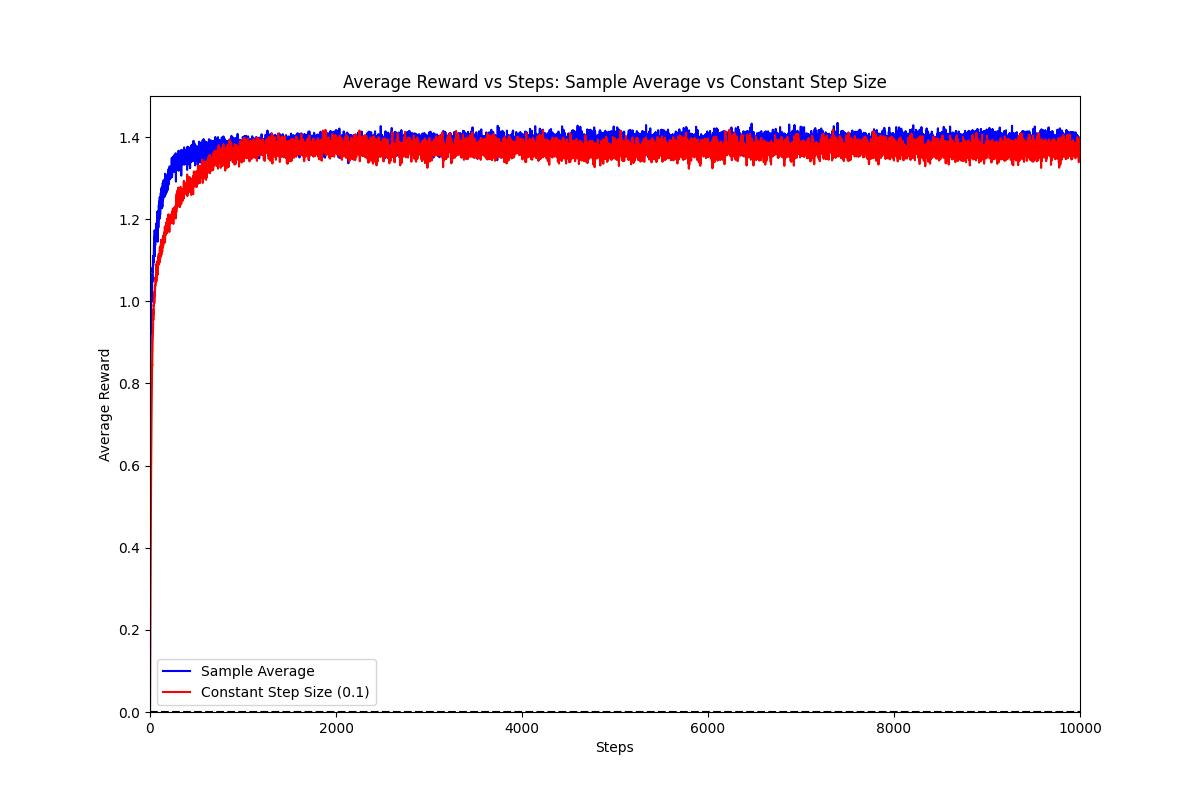
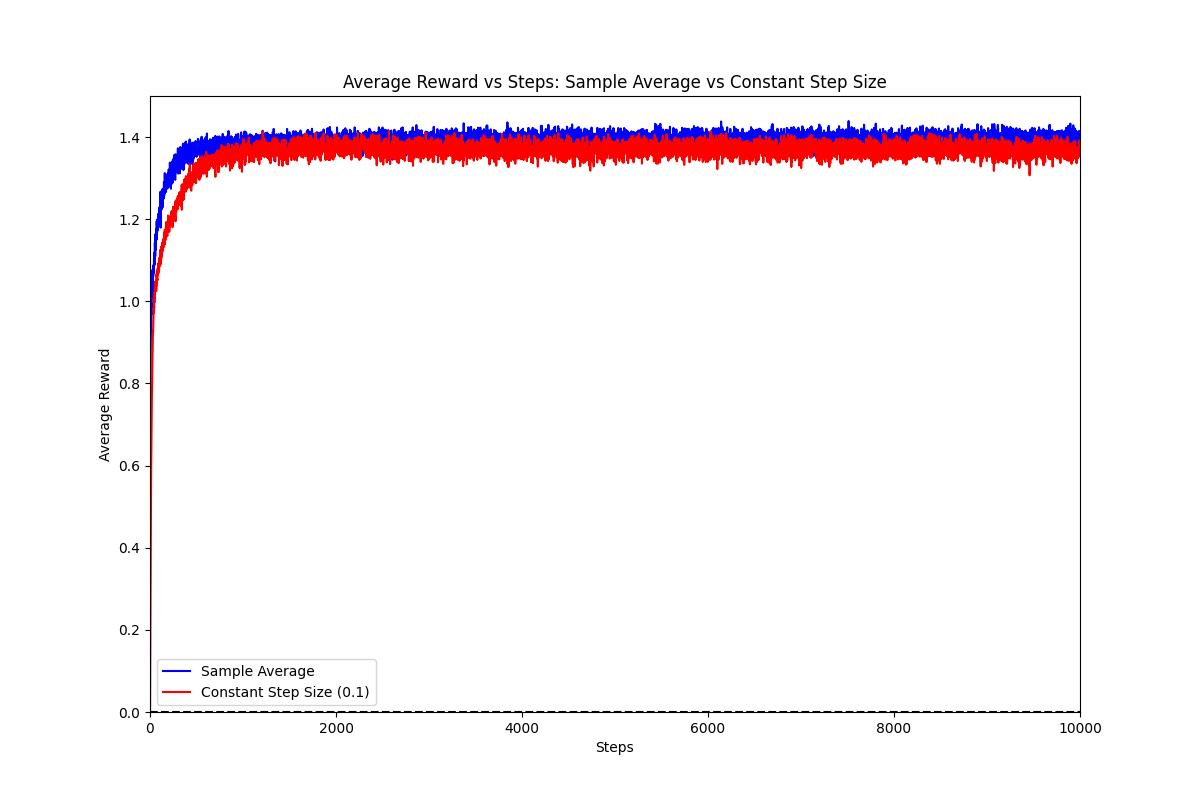
add: .. + gradient, ucb

Changed region(s): [[0.1233, 0.1562, 0.925, 0.375]]

diff --git a/10armed_testbed/all_algos.py b/10armed_testbed/all_algos.py
@@ -1,0 +1,160 @@
+import numpy as np
+from tqdm import tqdm
+import matplotlib.pyplot as plt
+
+class Bandit:
+    def __init__(self, k=10, eps=0.0, initial_q=0.0, true_reward=0.0,
+                 sample_average=True, UCB=None, gradient=False, gradient_baseline=False, 
+                 step_size=0.1, random_walk=False):
+        self.k = k
+
+        self.initial_q = initial_q
+        self.true_reward = true_reward
+
+        self.q_true = [np.random.normal(true_reward, 1.0) + initial_q for _ in range(k)]
+        self.Qt = [self.initial_q] * k 
+        self.cnt_action = [0] * k
+
+        self.sample_average = sample_average
+        self.UCB = UCB
+        self.gradient = gradient
+        self.gradient_baseline = gradient_baseline
+
+        self.step_idx = 0
+        self.step_size = step_size
+
+        self.eps = eps
+        self.random_walk = random_walk
+
+    def get_reward(self, action):
+        if self.random_walk:
+            return np.random.normal(self.q_true[action], 1.0) + np.random.normal(0.0, 0.01)
+        else:
+            return np.random.normal(self.q_true[action], 1.0)
+
+    def reset(self):
+        self.q_true = [np.random.normal(0.0, 1.0) + self.initial_q for _ in range(self.k)]
+        self.Qt = [0.0] * self.k 
+        self.cnt_action = [0] * self.k
+
+    def act(self):
+        if np.random.rand() < self.eps or self.step_idx == 1:
+            return np.random.randint(self.k)
+        if self.UCB:
+            # At = argmax { Qt(a) + c * sqrt( log(t) / Nt(a) ) }
+            ucb_q = self.Qt + self.UCB * np.sqrt( np.log(self.step_idx + 1) / (np.array(self.cnt_action) + 1e-5) )
+            best_q = np.max(ucb_q)
+            return np.random.choice([i for i, q in enumerate(ucb_q) if q == best_q])
+        if self.gradient:
+            # probs(a) = exp(H(a)) / sum_b=1_to_k exp(H(b))
+            exp_q = np.exp(self.Qt)
+            self.q_probs = exp_q / np.sum(exp_q)
+            return np.random.choice(range(self.k), p=self.q_probs)
+        best_q = np.max(self.Qt)
+        return np.random.choice([i for i, q in enumerate(self.Qt) if q == best_q])
+
+    def step(self, action):
+        reward = self.get_reward(action)
+        self.cnt_action[action] += 1
+        if self.sample_average:
+            self.Qt[action] = self.Qt[action] + (reward - self.Qt[action]) / self.cnt_action[action] # sample average: new = old + 1/n * (R - old)
+        elif self.gradient:
+            if self.gradient_baseline:
+                baseline = reward
+            else:
+                baseline = 0
+            one_hot = np.zeros(self.k)
+            one_hot[action] = 1
+            # H(t+1) = H(t) + alpha * (R - R_avg) * (1_action - probs(action)) # for taken action
+            # H(t+1) = H(t) - alpha * (R - R_avg) * probs(other_action) # for other actions
+            self.Qt += self.step_size * (reward - baseline) * (one_hot - self.q_probs)
+        else:
+            self.Qt[action] += self.step_size * (reward - self.Qt[action]) # new = old + step_size * (R - old)
+        self.step_idx += 1
+        return reward
+
+
+def run_simulation(bandit, num_steps=1000):
+    bandit.reset()
+    num_steps = num_steps
+    reward_per_steps = np.array([0.0] * num_steps)
+    num_opt_action = np.array([0] * num_steps)
+    percent_opt_action = np.array([0.0] * num_steps)
+
+    for step_idx in range(1, num_steps + 1):
+        action = bandit.act()
+        bandit.step(action)
+
+        reward_per_steps[step_idx - 1] = bandit.Qt[action] 
+        if step_idx == 1:
+            num_opt_action[step_idx - 1] = action == np.argmax(bandit.q_true)
+        else:
+            num_opt_action[step_idx - 1] = num_opt_action[step_idx - 2] + (action == np.argmax(bandit.q_true))
+        percent_opt_action[step_idx - 1] = num_opt_action[step_idx - 1] / step_idx 
+
+    return reward_per_steps, percent_opt_action
+
+def main():
+    # visualize all algorithms
+    k = 10
+    num_runs = 2000
+    all_percent_opt_action = []
+    all_avg_reward = []
+
+    algo_params = [
+        {"name": "eps=0", "eps": 0, "sample_average": True},
+        {"name": "eps=1/32", "eps": 1/32, "sample_average": True},
+        {"name": "eps=1/16", "eps": 1/16, "sample_average": True},
+        {"name": "eps=1/16 Optimistic", "eps": 1/16, "initial_q": 5.0, "sample_average": True},
+        {"name": "UCB c=0.5", "UCB": 0.5, "sample_average": True},
+        {"name": "UCB c=1", "UCB": 1, "sample_average": True},
+        {"name": "Gradient, baseline", "true_reward": 4.0, "gradient": True, "gradient_baseline": True, "step_size": 0.1},
+        {"name": "Gradient, no baseline", "true_reward": 4.0, "gradient": True, "gradient_baseline": False, "step_size": 0.1},
+    ]
+    colors = ['b', 'g', 'r', 'c', 'm', 'y', 'k', 'orange']
+    plt.figure(figsize=(12, 8))
+    for idx, params in enumerate(algo_params):
+        print(f"Running simulation for {params['name']}")
+        percent_opt_action_list = np.array([0.0] * 1000)
+        avg_reward_list = np.array([0.0] * 1000)
+        bandit = Bandit(k=k, 
+                        eps=params.get("eps", 0.0), 
+                        sample_average=params.get("sample_average", True), 
+                        UCB=params.get("UCB", None), 
+                        gradient=params.get("gradient", False), 
+                        gradient_baseline=params.get("gradient_baseline", False), 
+                        step_size=params.get("step_size", 0.1))
+        for run_idx in tqdm(range(1, num_runs + 1)):
+            reward_per_steps, percent_opt_action = run_simulation(bandit)
+            avg_reward_list += (reward_per_steps - avg_reward_list) / run_idx # avg over runs
+            percent_opt_action_list += (percent_opt_action - percent_opt_action_list) / run_idx # avg over runs
+        all_avg_reward.append(avg_reward_list)
+        all_percent_opt_action.append(percent_opt_action_list)
+        plt.plot(avg_reward_list, label=params['name'], color=colors[idx])
+
+
+    plt.xlabel("Steps")
+    plt.ylabel("Average Reward")
+    plt.xlim(0, 1000)
+    plt.ylim(0, 2.5)
+    plt.legend()
+    # plt.show()
+    plt.savefig("./outputs/all_algos_average_reward.png")
+
+    plt.figure(figsize=(12, 8))
+    for idx, params in enumerate(algo_params):
+        plt.plot(all_percent_opt_action[idx], label=params['name'], color=colors[idx])
+    plt.xlabel("Steps")
+    plt.ylabel("% Optimal Action")
+    plt.xlim(0, 1000)
+    plt.ylim(0, 1)
+    plt.legend()
+    # plt.show()
+    plt.savefig("./outputs/all_algos_percent_optimal_action.png")
+
+
+
+if __name__ == "__main__":
+    # figure22()
+    # figure23()
+    main()

diff --git a/10armed_testbed/ex_2_5.py b/10armed_testbed/ex_2_5.py
@@ -3,7 +3,7 @@ from tqdm import tqdm
 import matplotlib.pyplot as plt
 
 class Bandit:
-    def __init__(self, k=10, eps=0.0, initial_q=0.0, sample_average=True, step_size=0.1):
+    def __init__(self, k=10, eps=0.0, initial_q=0.0, sample_average=True, step_size=0.1, random_walk=False):
         self.k = k
 
         self.q_true = [np.random.normal(0.0, 1.0) + initial_q for _ in range(k)]
@@ -16,9 +16,10 @@ class Bandit:
 
         self.eps = eps
         self.initial_q = initial_q
+        self.random_walk = random_walk
 
-    def get_reward(self, action, random_walk=False):
-        if random_walk:
+    def get_reward(self, action):
+        if self.random_walk:
             return np.random.normal(self.q_true[action], 1.0) + np.random.normal(0.0, 0.01)
         else:
             return np.random.normal(self.q_true[action], 1.0)
@@ -116,8 +117,8 @@ def figure23():
     num_steps = 10000
     eps = 0.1
     step_size = 0.1
-    bandit_sample_avg = Bandit(k=k, eps=eps, initial_q=0.0, sample_average=True, step_size=None)
-    bandit_const_step = Bandit(k=k, eps=eps, initial_q=0.0, sample_average=False, step_size=step_size)
+    bandit_sample_avg = Bandit(k=k, eps=eps, initial_q=0.0, sample_average=True, step_size=None, random_walk=True)
+    bandit_const_step = Bandit(k=k, eps=eps, initial_q=0.0, sample_average=False, step_size=step_size, random_walk=True)
 
     # sample average
     plt.figure(figsize=(12, 8))
